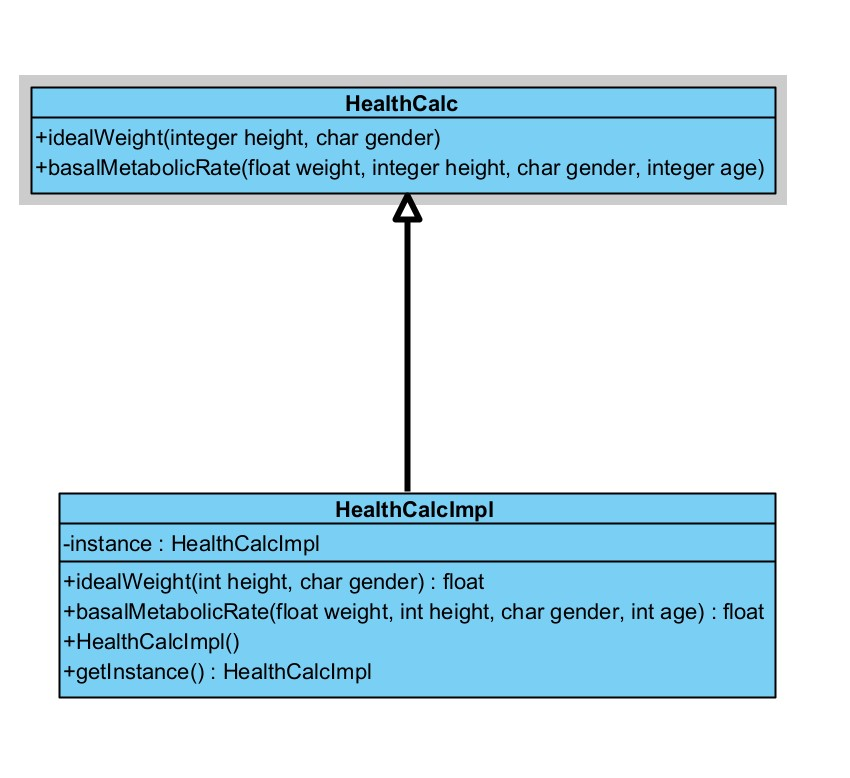
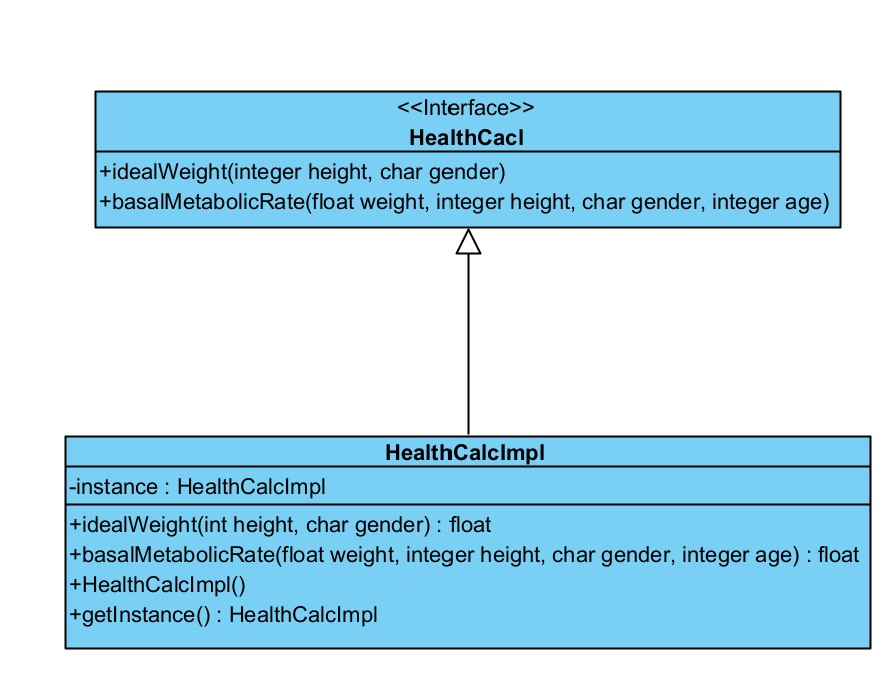
Arreglo fallos

Changed region(s): [[0.0, 0.0908, 0.9788, 0.938]]

diff --git a/src/main/java/healthcalc/HealthCalcAdapter.java b/src/main/java/healthcalc/HealthCalcAdapter.java
@@ -1,0 +1,29 @@
+package healthcalc;
+
+public class HealthCalcAdapter implements HealthHospital {
+    private HealthCalc healthCalc;
+
+    public HealthCalcAdapter(HealthCalc healthCalc) {
+        this.healthCalc = healthCalc;
+    }
+
+    @Override
+    public double bmr(char gender, int age, float height, int weight) {
+        try {
+            return healthCalc.basalMetabolicRate(weight, (int) height, gender, age);
+        } catch (Exception e) {
+            e.printStackTrace();
+            return 0.0;
+        }
+    }
+
+    @Override
+    public int pesoIdeal(char gender, float height) {
+        try {
+            return (int) healthCalc.idealWeight((int) height, gender);
+        } catch (Exception e) {
+            e.printStackTrace();
+            return 0;
+        }
+    }
+}

diff --git a/src/main/java/healthcalc/mainPatronAdapter.java b/src/main/java/healthcalc/mainPatronAdapter.java
@@ -1,0 +1,15 @@
+package healthcalc;
+
+public class mainPatronAdapter {
+    public static void main(String[] args) {
+        HealthCalc healthCalc = HealthCalcImpl.getInstance();
+        HealthHospital adapter = new HealthCalcAdapter(healthCalc);
+
+        double bmr = adapter.bmr('m', 20, 183.0f, 83);
+        System.out.println("Basal Metabolic Rate (BMR): " + bmr);
+
+        int pesoIdeal = adapter.pesoIdeal('m', 183.0f);
+        System.out.println("Peso Ideal: " + pesoIdeal);
+    }
+}
+

diff --git a/src/main/java/healthcalc/HealthHospital.java b/src/main/java/healthcalc/HealthHospital.java
@@ -1,0 +1,7 @@
+package healthcalc;
+
+public interface HealthHospital {
+    double bmr(char gender, int age, float height, int weight);
+    
+    int pesoIdeal(char gender, float height);
+}

diff --git a/src/main/java/healthcalc/HealthCalcController.java b/src/main/java/healthcalc/HealthCalcController.java
@@ -45,4 +45,3 @@ public class HealthCalcController {
         });
     }
 }
-
